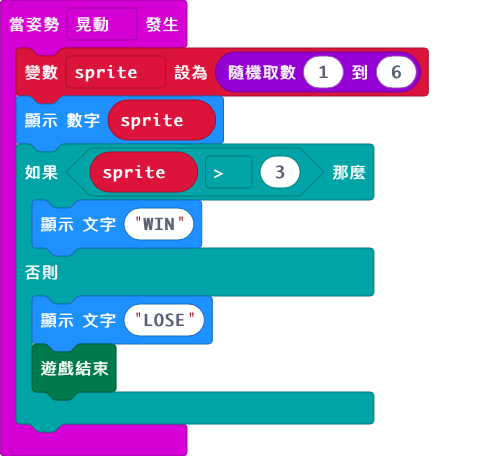
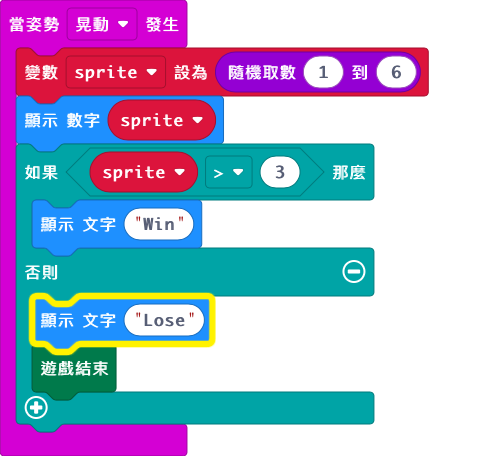
Update main.blocks, main.ts

diff --git a/main.ts b/main.ts
@@ -3,9 +3,9 @@ input.onGesture(Gesture.Shake, function () {
     sprite = randint(1, 6)
     basic.showNumber(sprite)
     if (sprite > 3) {
-        basic.showString("WIN")
+        basic.showString("Win")
     } else {
-        basic.showString("LOSE")
+        basic.showString("Lose")
         game.gameOver()
     }
 })
